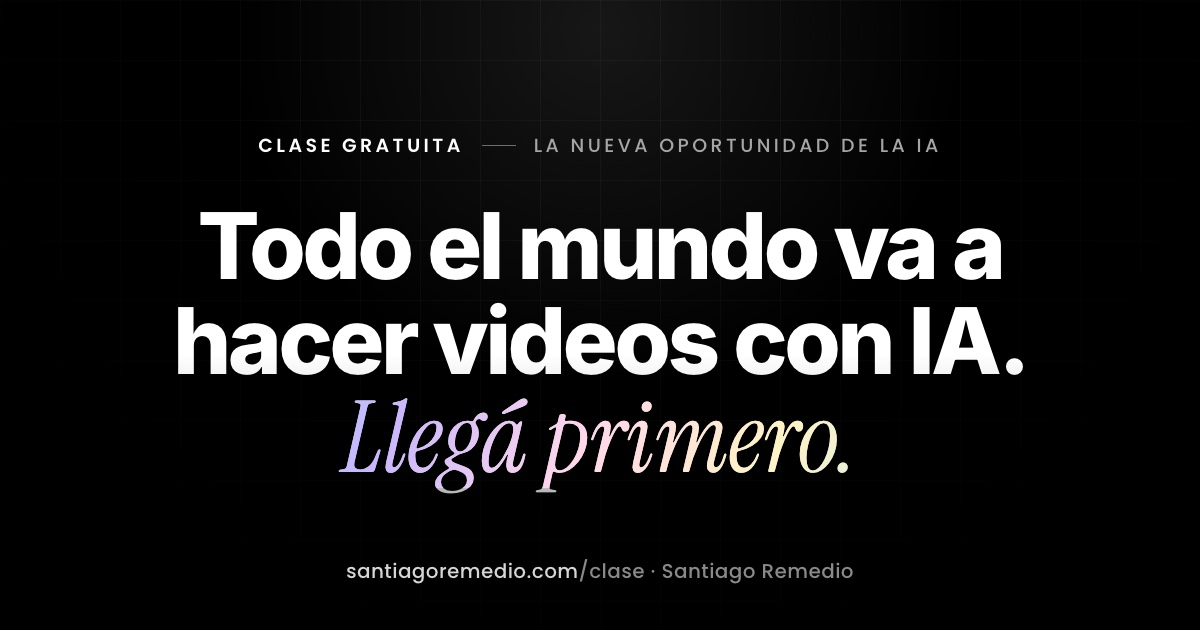
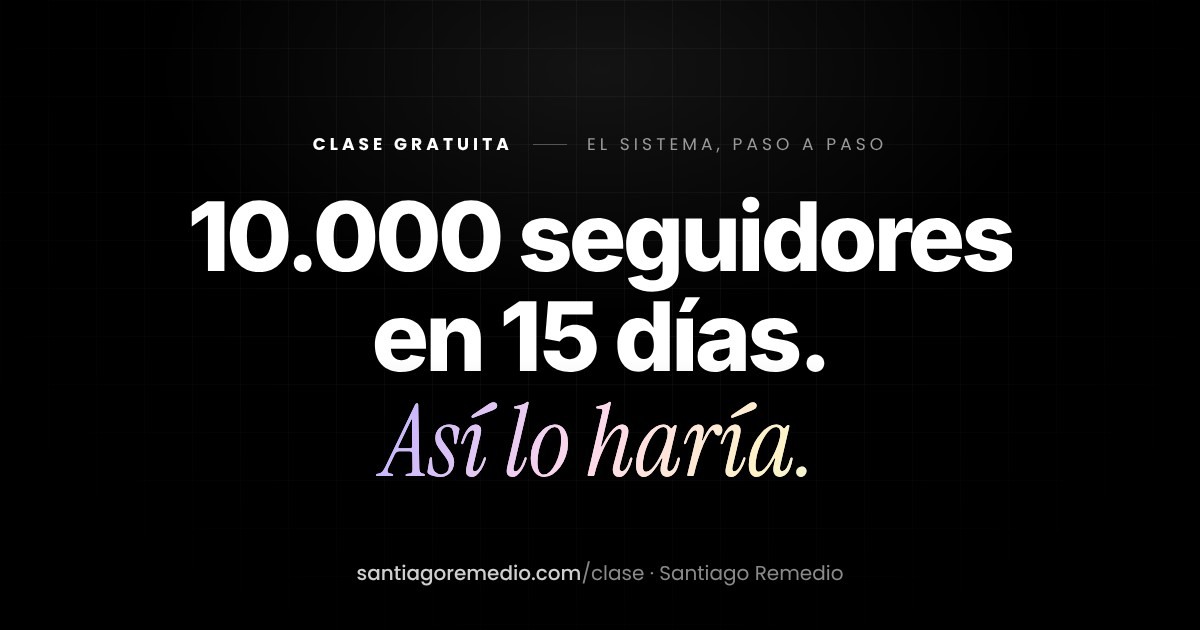
Clase: cambia el video por 10.000 seguidores en 15 días
Nuevo video, miniatura de fondo, titular, metadatos, imagen para compartir y origen de leads (clase-10k-seguidores).

Claude-Session: https://claude.ai/code/session_01Gx6VrJmvqSTdLxSYMVTqiA

diff --git a/clase/index.html b/clase/index.html
@@ -3,23 +3,23 @@
 <head>
 <meta charset="UTF-8">
 <meta name="viewport" content="width=device-width, initial-scale=1.0">
-<title>Clase gratuita · La nueva oportunidad de la IA | Santiago Remedio</title>
-<meta name="description" content="Clase gratuita: por qué en los próximos 3 a 6 meses todo el mundo va a hacer videos con IA, y cómo llegar primero. Dejá tu mail y mirala ahora.">
+<title>Clase gratuita · 10.000 seguidores en 15 días | Santiago Remedio</title>
+<meta name="description" content="Clase gratuita: el sistema que usaría para ganar 10.000 seguidores en 15 días. Ideas outlier, volumen, edición con IA y replicar lo que funciona. Dejá tu mail y mirala ahora.">
 <meta name="robots" content="index, follow">
 <meta name="theme-color" content="#000000">
 <meta property="og:type" content="website">
 <meta property="og:locale" content="es_LA">
 <meta property="og:site_name" content="Santiago Remedio">
 <meta property="og:url" content="https://santiagoremedio.com/clase">
-<meta property="og:title" content="Todo el mundo va a hacer videos con IA. Llegá primero.">
-<meta property="og:description" content="Clase gratuita sobre la nueva oportunidad de la IA. Dejá tu mail y mirala ahora.">
+<meta property="og:title" content="10.000 seguidores en 15 días. Así lo haría.">
+<meta property="og:description" content="Clase gratuita: el sistema completo, paso a paso. Dejá tu mail y mirala ahora.">
 <meta property="og:image" content="https://santiagoremedio.com/clase/og.jpg">
 <meta property="og:image:width" content="1200">
 <meta property="og:image:height" content="630">
-<meta property="og:image:alt" content="Todo el mundo va a hacer videos con IA. Llegá primero. Clase gratuita de Santiago Remedio.">
+<meta property="og:image:alt" content="10.000 seguidores en 15 días. Así lo haría. Clase gratuita de Santiago Remedio.">
 <meta name="twitter:card" content="summary_large_image">
-<meta name="twitter:title" content="Todo el mundo va a hacer videos con IA. Llegá primero.">
-<meta name="twitter:description" content="Clase gratuita sobre la nueva oportunidad de la IA. Dejá tu mail y mirala ahora.">
+<meta name="twitter:title" content="10.000 seguidores en 15 días. Así lo haría.">
+<meta name="twitter:description" content="Clase gratuita: el sistema completo, paso a paso. Dejá tu mail y mirala ahora.">
 <meta name="twitter:image" content="https://santiagoremedio.com/clase/og.jpg">
 <link rel="canonical" href="https://santiagoremedio.com/clase">
 <link rel="preconnect" href="https://fonts.googleapis.com">
@@ -36,14 +36,14 @@ var CONFIG = {
   // ID del video de YouTube: lo que va después de "v=" en la URL.
   // Ej: https://www.youtube.com/watch?v=xCo-lJA-bok  ->  videoId: "xCo-lJA-bok"
   // Mientras esté vacío, al desbloquear se ve un aviso en lugar del video.
-  videoId: "dnDEPCX1n4M",
+  videoId: "5yQ7NHBZES4",
 
   // Mismo Apps Script que la planilla "Leads Masterclass"
   // (columnas Fecha / Email / WhatsApp / Origen / URL).
   webhookUrl: "https://script.google.com/macros/s/AKfycbyPwpSiizF6S37QYn69LuG-luGTpX9TYDhQ5G8bQ75AI5T3jzoCZYGyv_cu3tI7IaS4/exec",
 
   // Lo que aparece en la columna "Origen" de la planilla.
-  source: "clase-ia-videos",
+  source: "clase-10k-seguidores",
 
   // Opcional: endpoint de Formspree para que además te llegue un mail por cada lead.
   // Dejalo vacío si con la planilla alcanza.
@@ -51,7 +51,7 @@ var CONFIG = {
 
   // Opcional: fotograma del video que se ve detrás del desenfoque, antes de desbloquear.
   // Poné el archivo en esta misma carpeta y escribí su nombre (ej: "poster.jpg").
-  posterUrl: "https://i.ytimg.com/vi/dnDEPCX1n4M/maxresdefault.jpg",
+  posterUrl: "https://i.ytimg.com/vi/5yQ7NHBZES4/maxresdefault.jpg",
 
   // Opcional: duración de la clase, aparece junto al candado (ej: "15 min").
   duration: "",
@@ -410,12 +410,12 @@ footer {
 
       <div class="brand-lockup"><a href="https://santiagoremedio.com/">Santiago Remedio</a></div>
 
-      <p class="status-line"><span class="status-strong">Clase gratuita</span><span class="status-rule" aria-hidden="true"></span><span>La nueva oportunidad de la IA</span></p>
+      <p class="status-line"><span class="status-strong">Clase gratuita</span><span class="status-rule" aria-hidden="true"></span><span>El sistema, paso a paso</span></p>
 
       <h1 class="hero-title">
-        <span class="hl">Todo el mundo va a</span>
-        <span class="hl">hacer videos con IA.</span>
-        <span class="hl iris ital">Llegá primero.</span>
+        <span class="hl">10.000 seguidores</span>
+        <span class="hl">en 15 días.</span>
+        <span class="hl iris ital">Así lo haría.</span>
       </h1>
 
       <div class="card" id="card">
